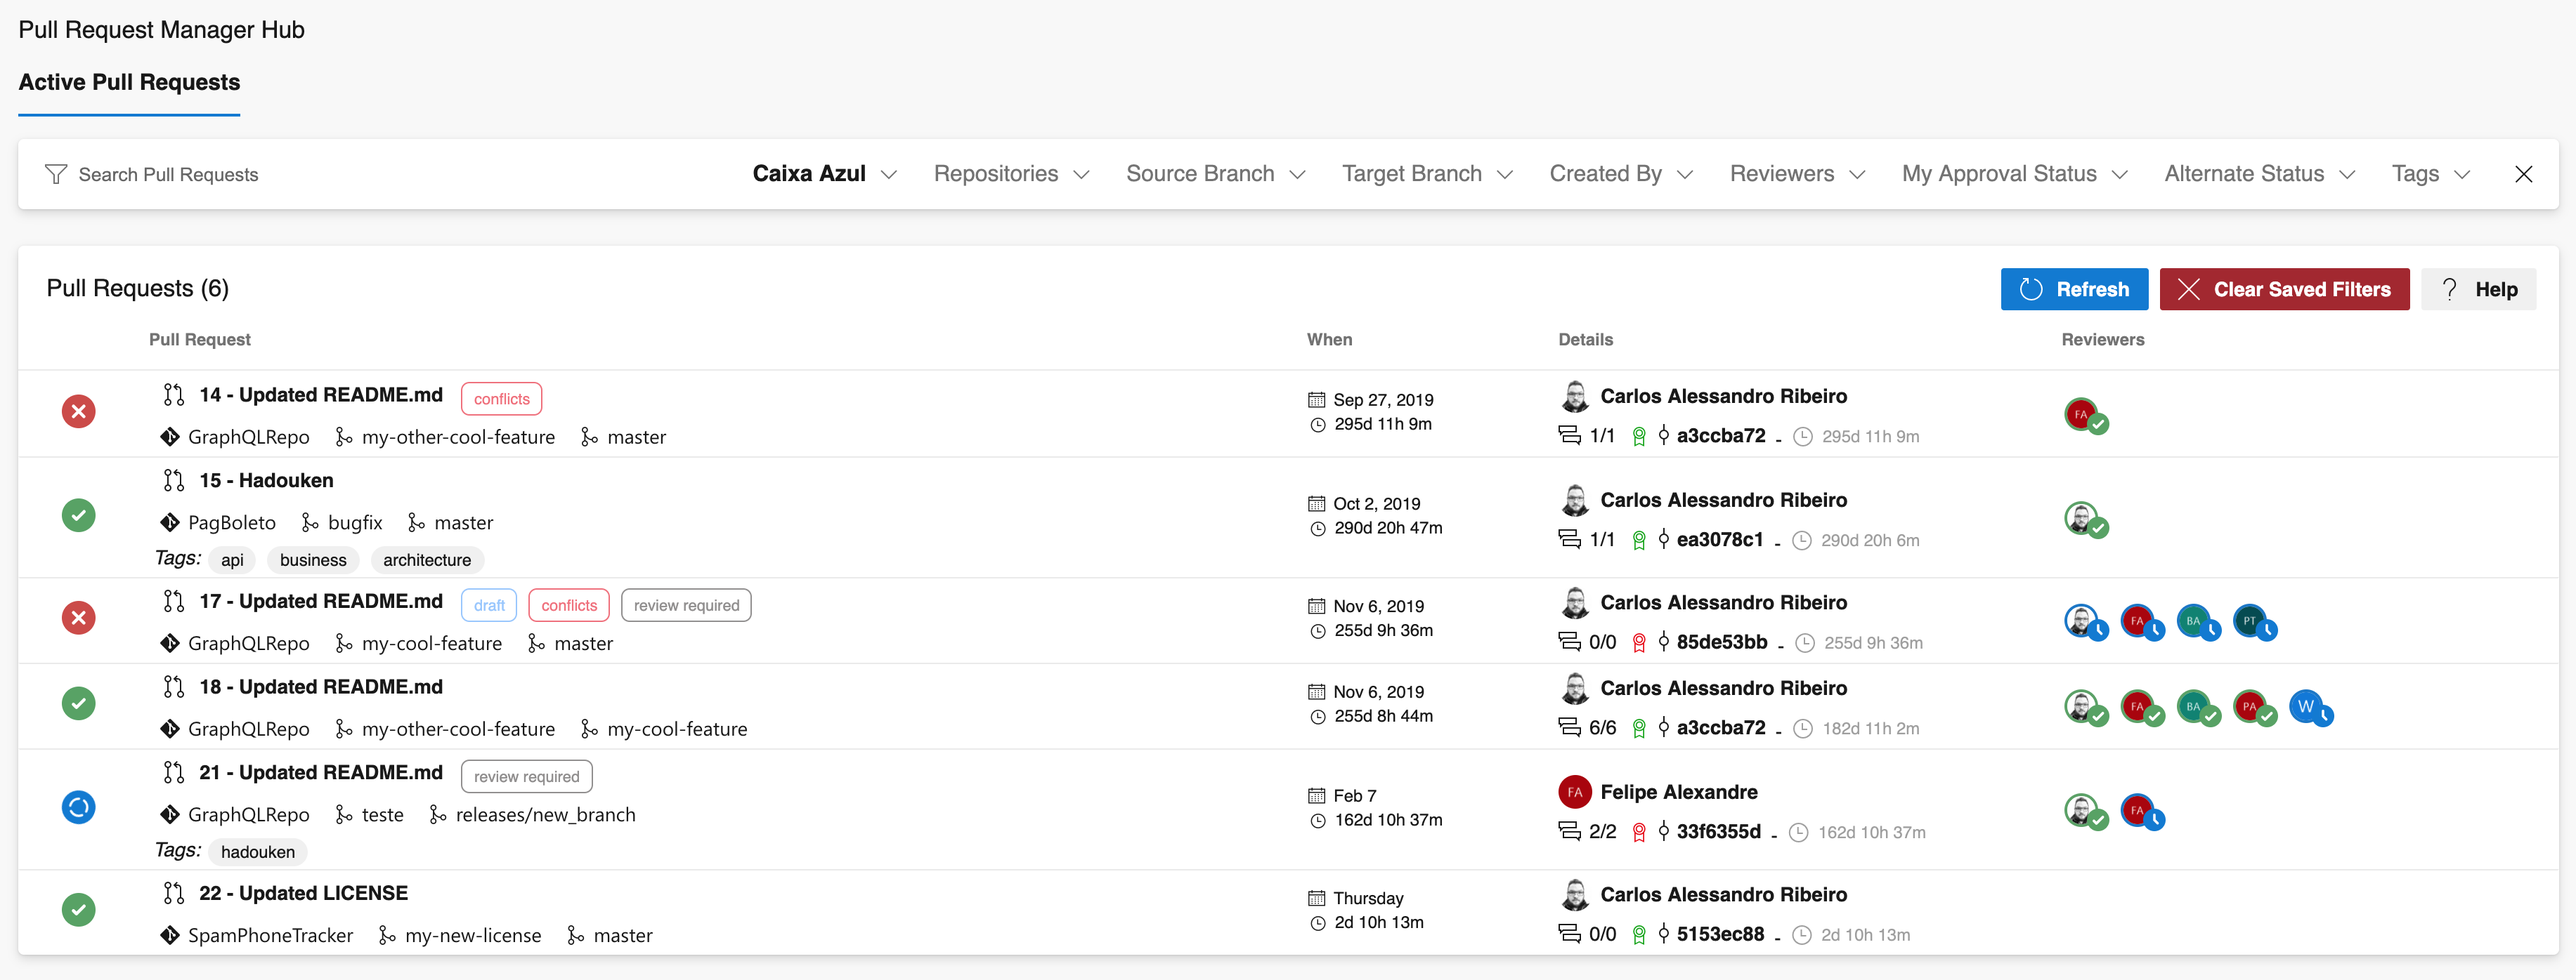
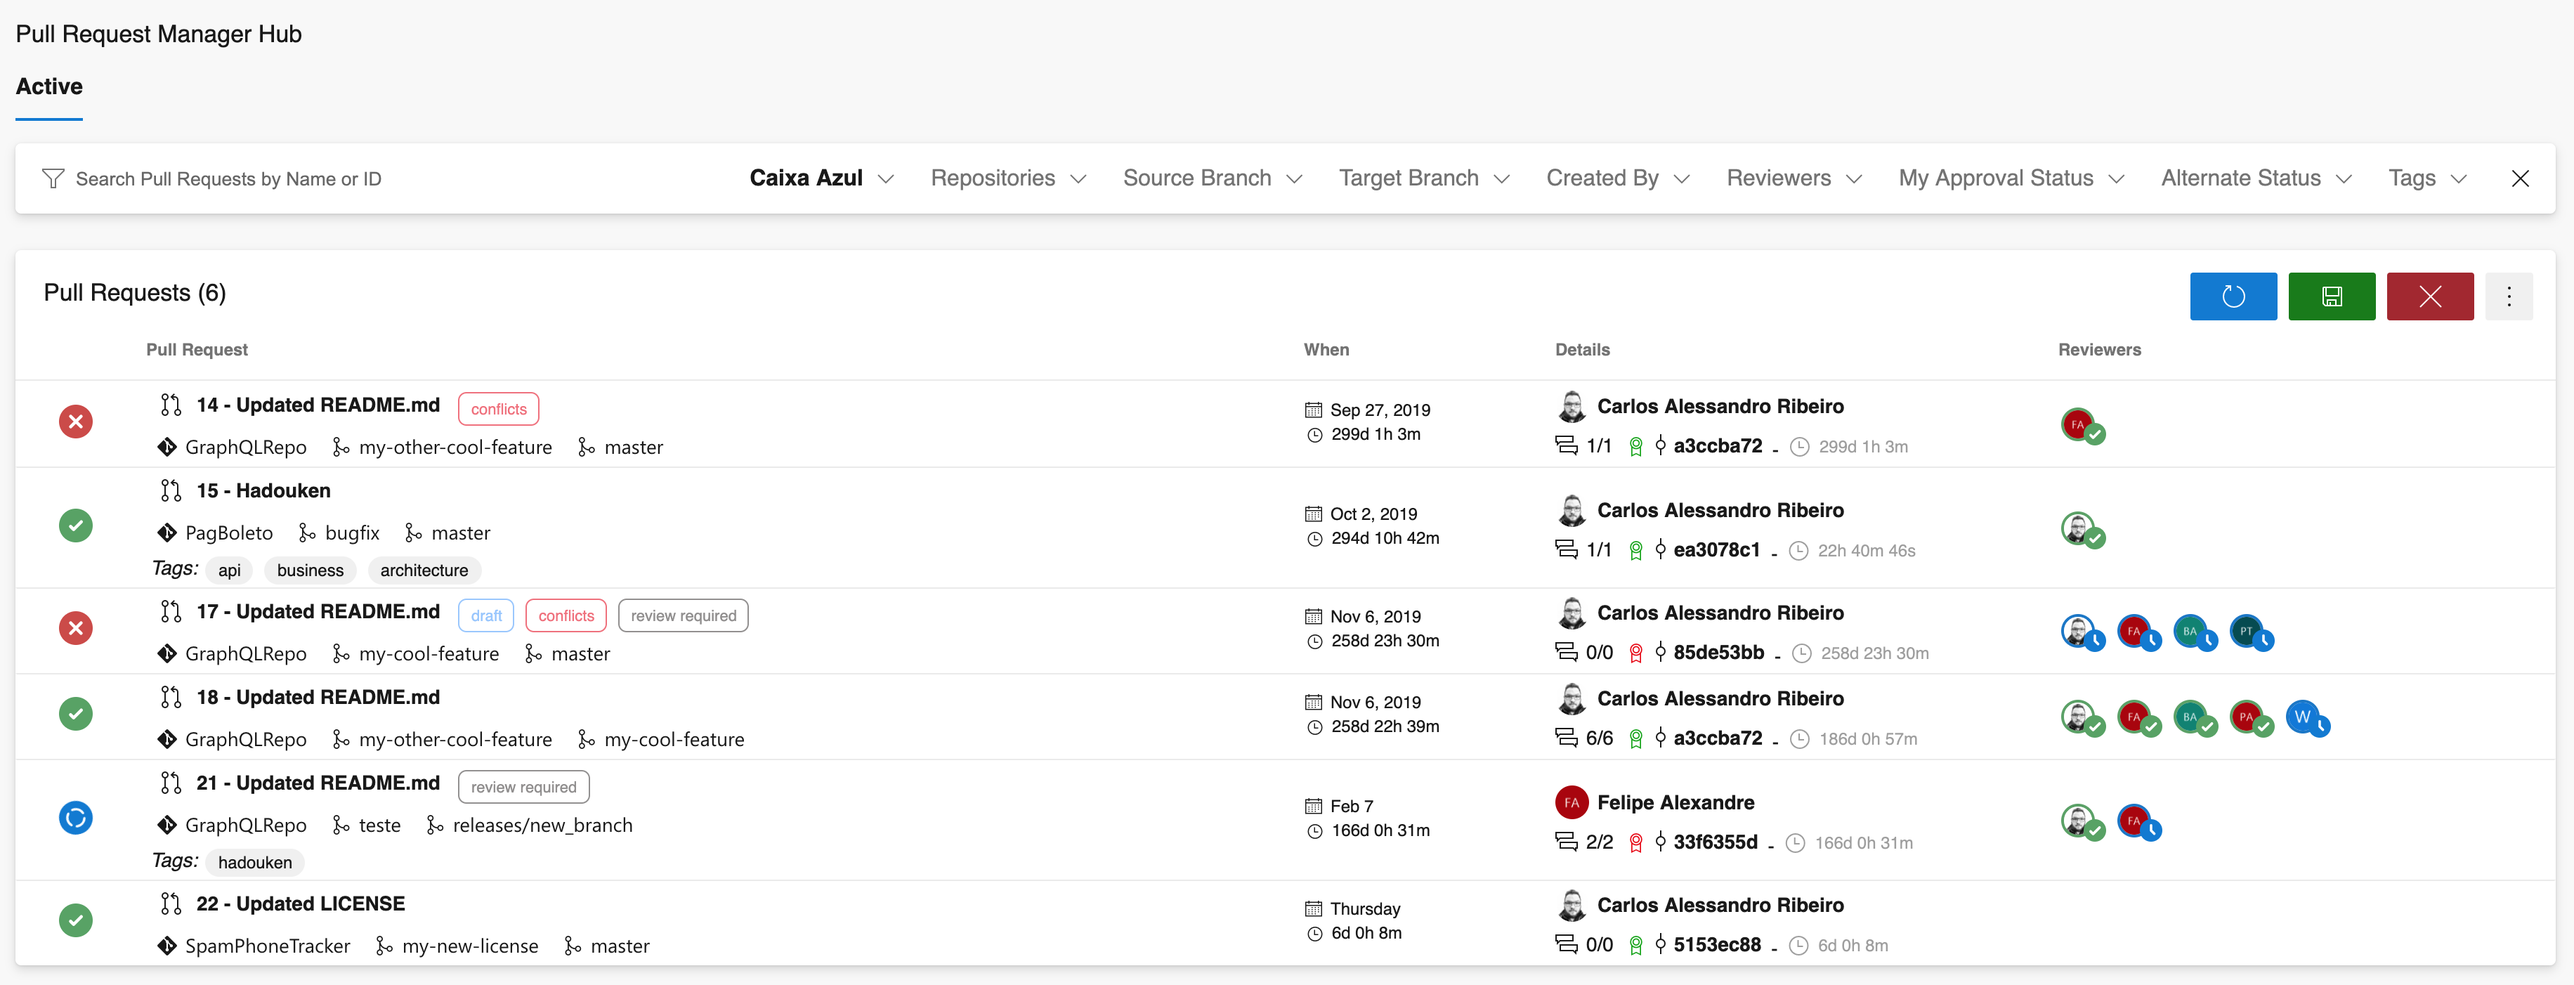
Sorting by When column - performance improvements

diff --git a/src/tabs/PullRequestsTab.tsx b/src/tabs/PullRequestsTab.tsx
@@ -51,7 +51,7 @@ import {
 } from "azure-devops-ui/Core/Observable";
 import { Card } from "azure-devops-ui/Card";
 import { Status, Statuses } from "azure-devops-ui/Status";
-import { Table } from "azure-devops-ui/Table";
+import { Table, ColumnSorting, SortOrder, sortItems } from "azure-devops-ui/Table";
 import { ZeroData } from "azure-devops-ui/ZeroData";
 import { IdentityRef } from "azure-devops-extension-api/WebApi/WebApi";
 import { ObservableValue } from "azure-devops-ui/Core/Observable";
@@ -349,9 +349,9 @@ export class PullRequestsTab extends React.Component<
               pr,
               this.state.currentProject!.name,
               this.baseUrl,
-              (_updatedPr) => {
-                let { tagList } = self.state;
-                _updatedPr.labels
+              (updatedPr) => {
+                let { tagList, pullRequests } = self.state;
+                updatedPr.labels
                   .filter((t) => !this.hasFilterValue(tagList, t.id))
                   .map((t) => {
                     tagList.push(t);
@@ -360,9 +360,11 @@ export class PullRequestsTab extends React.Component<
                     return tagList;
                   });
 
-                setTimeout(() => {
-                  self.filterPullRequests();
-                }, 10);
+                this.setState({
+                  tagList
+                });
+
+                this.pullRequestItemProvider.splice(0, this.pullRequestItemProvider.length, ...pullRequests);
               }
             )
           );
@@ -830,6 +832,28 @@ export class PullRequestsTab extends React.Component<
       showToastMessage,
       toastMessageToShow,
     } = this.state;
+
+    // Create the sorting behavior (delegate that is called when a column is sorted).
+    const sortingBehavior = new ColumnSorting<PullRequestModel.PullRequestModel>(
+      (
+        columnIndex: number,
+        proposedSortOrder: SortOrder,
+        event: React.KeyboardEvent<HTMLElement> | React.MouseEvent<HTMLElement>
+      ) => {
+        this.pullRequestItemProvider.splice(
+          0,
+          this.pullRequestItemProvider.length,
+          ...sortItems<PullRequestModel.PullRequestModel>(
+            columnIndex,
+            proposedSortOrder,
+            this.sortFunctions,
+            Data.columns,
+            pullRequests
+          )
+        );
+      }
+    );
+
     if (
       pullRequestCount === 0 &&
       pullRequests.filter((pr) => pr.isStillLoading() === true).length === 0
@@ -864,6 +888,7 @@ export class PullRequestsTab extends React.Component<
           )}
           <React.Fragment>
             <Table<PullRequestModel.PullRequestModel>
+              behaviors={[sortingBehavior]}
               columns={Data.columns}
               itemProvider={this.pullRequestItemProvider}
               showLines={true}
@@ -965,6 +990,24 @@ export class PullRequestsTab extends React.Component<
       );
     }
   }
+
+  sortFunctions = [
+    null, //Status column
+    null, // Title column
+    // Sort on When column
+    (
+      item1: PullRequestModel.PullRequestModel,
+      item2: PullRequestModel.PullRequestModel
+    ): number => {
+      return (
+        item2.gitPullRequest.creationDate.getTime() -
+        item1.gitPullRequest.creationDate.getTime()
+      );
+    },
+
+    null, // Details column
+    null // Reviewers column
+  ];
 
   private listHeaderColumns: IHeaderCommandBarItem[] = [
     {

diff --git a/src/tabs/PulRequestsTabData.tsx b/src/tabs/PulRequestsTabData.tsx
@@ -8,8 +8,11 @@ import { IStatusProps } from "azure-devops-ui/Status";
 import { IColor } from "azure-devops-ui/Utilities/Color";
 import { IProjectInfo } from "azure-devops-extension-api/Common/CommonServices";
 import { IdentityRef } from "azure-devops-extension-api/WebApi/WebApi";
-import { TeamProjectReference, WebApiTagDefinition } from "azure-devops-extension-api/Core/Core";
-import { ITableColumn } from "azure-devops-ui/Table";
+import {
+  TeamProjectReference,
+  WebApiTagDefinition,
+} from "azure-devops-extension-api/Core/Core";
+import { ITableColumn, SortOrder } from "azure-devops-ui/Table";
 import {
   StatusColumn,
   TitleColumn,
@@ -121,6 +124,11 @@ export const columns: ITableColumn<PullRequestModel>[] = [
     readonly: true,
     renderCell: DateColumn,
     width: -10,
+    sortProps: {
+      ariaLabelAscending: "Sorted new to older",
+      ariaLabelDescending: "Sorted older to new",
+      sortOrder: SortOrder.descending
+    }
   },
   {
     className: "pipelines-two-line-cell",
@@ -223,8 +231,8 @@ export const pullRequestCriteria: GitPullRequestSearchCriteria = {
 };
 
 export interface IKeyValueData {
-  id: string,
-  text: string
+  id: string;
+  text: string;
 }
 
 export interface IPullRequestsTabState {
@@ -245,11 +253,20 @@ export interface IPullRequestsTabState {
 }
 
 export function sortMethod(
-  a: BranchDropDownItem | IdentityRef | WebApiTagDefinition | GitRepository | TeamProjectReference,
-  b: BranchDropDownItem | IdentityRef | WebApiTagDefinition | GitRepository | TeamProjectReference
+  a:
+    | BranchDropDownItem
+    | IdentityRef
+    | WebApiTagDefinition
+    | GitRepository
+    | TeamProjectReference,
+  b:
+    | BranchDropDownItem
+    | IdentityRef
+    | WebApiTagDefinition
+    | GitRepository
+    | TeamProjectReference
 ) {
-  if (a.hasOwnProperty("displayName"))
-  {
+  if (a.hasOwnProperty("displayName")) {
     const convertedA = a as BranchDropDownItem | IdentityRef;
     const convertedB = b as BranchDropDownItem | IdentityRef;
     if (convertedA.displayName! < convertedB.displayName!) {
@@ -258,11 +275,15 @@ export function sortMethod(
     if (convertedA.displayName! > convertedB.displayName!) {
       return 1;
     }
-  }
-  else if (a.hasOwnProperty("name"))
-  {
-    const convertedA = a as WebApiTagDefinition | GitRepository | TeamProjectReference;
-    const convertedB = b as WebApiTagDefinition | GitRepository | TeamProjectReference;
+  } else if (a.hasOwnProperty("name")) {
+    const convertedA = a as
+      | WebApiTagDefinition
+      | GitRepository
+      | TeamProjectReference;
+    const convertedB = b as
+      | WebApiTagDefinition
+      | GitRepository
+      | TeamProjectReference;
     if (convertedA.name < convertedB.name) {
       return -1;
     }

diff --git a/marketplace/overview.md b/marketplace/overview.md
@@ -27,18 +27,32 @@ Manage your Pull Requests of all your projects and repositories at a single plac
 - You can now manage all Pull Requests across all projects you have access to
 - Comments count + resolved ones (For instance: 1/2 resolved)
 - Pull Request policies check (Reviewers, build, so on)
+- Save current state
+  - Selected search filters
 
 ## Future releaes
 
 - Create New Pull Request button
 - Save current state
-  - Selected search filters
   - Last PR reviewed (highlight)
 - Work Items count
 - Where you left:
   - New badge (Pill) for your voted PRs with new changes
 
 ## Updates (dd/MM/yyyy)
+
+### 22/07/2020
+
+- UI tweaks
+- Performance improvements
+- Soring by Pull Request Creation Date (When column)
+
+### 21/07/2020
+
+- UI tweaks
+- Code refactoring
+- New features
+  - Save current filters
 
 ### 12/07/2020
 
